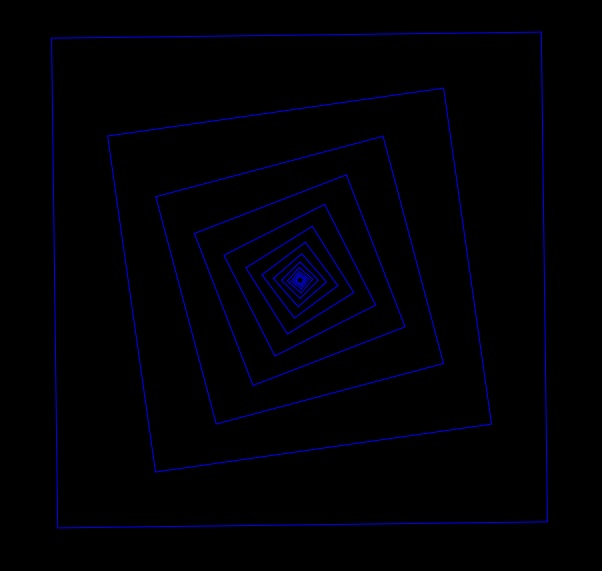
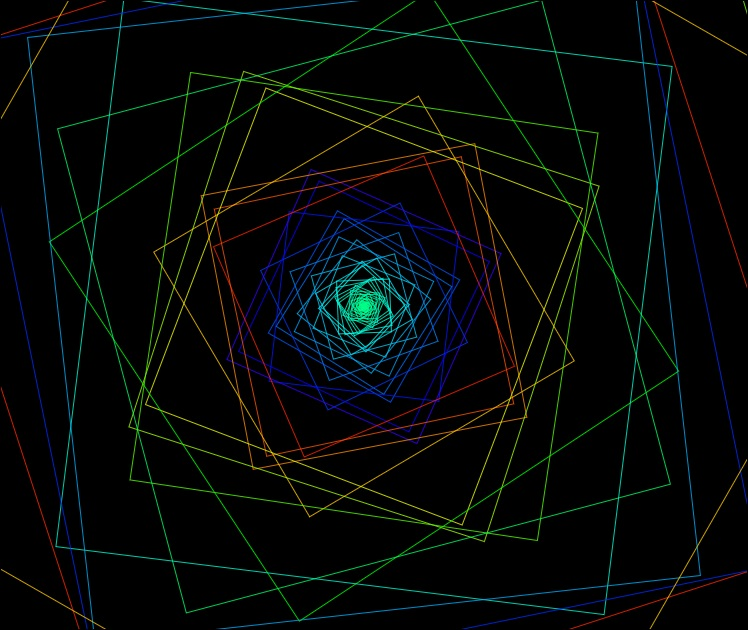
color

diff --git a/posts/recrec/sketch.js b/posts/recrec/sketch.js
@@ -10,17 +10,20 @@ function setup() {
         noFill();
         inputX = map(mouseX, width, 0, 1.03,20);
         inputY = map(mouseY, height, 0, 1.03, 1.5);
-        drawRecursively(width/2, height/2, 6, sin(radians(frameCount/6)));
+        drawRecursively(width/2, height/2, .2, sin(radians(frameCount/6)));
     }
 
     function drawRecursively(x , y, size, orientation){
         push();
-        if((size < height+height/3 || size < width+width/3) && size > 5){
-            stroke(0,0,255);
+        if((size < height+height/3 || size < width+width/3) && size > .1){
+						colorMode(HSB);
+            stroke((frameCount/2+size/2)%255,255,255);
             translate(x,y);
             rotate(orientation);
             rect(0,0,size,size);
             pop();
+						strokeWeight(.8);
+
             drawRecursively(x,y, size*inputY, orientation+orientation/inputX);
         }else{
             pop();

diff --git a/posts/honeycomb/post.html b/posts/honeycomb/post.html
@@ -2,8 +2,6 @@
 <html>
 <head>
 <title>honeycomb</title>
-
-
 <script src="https://cdnjs.cloudflare.com/ajax/libs/p5.js/0.6.1/p5.js"></script>
 <script src="https://rawgit.com/diwi/p5.EasyCam/master/p5.easycam.js"></script>
 <script src="sketch.js"></script>
@@ -14,7 +12,7 @@ html, body {
 header{
 	position: absolute;
     left: 50px;
-	top: 0px;
+	   top: 0px;
     width: 200px;
     height: 200px;
 	font-size: 40px;
